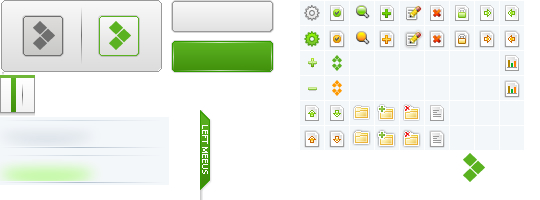
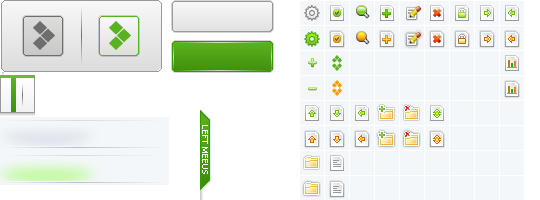
filemanager

diff --git a/webmis/css/admin.css b/webmis/css/admin.css
@@ -4,6 +4,7 @@ body,div,span,ul,li,table,tr,td,input,a,h1,h2,h3,h4{margin: 0; padding: 0;}
 body,textarea{font-family: arial,simsun,宋体,sans-serif; font-size: 12px;}
 img{border: none;}
 ul{list-style: none;}
+em{padding: 4px 10px;}
 a{color: #007568; text-decoration: none;}
 a:hover{color: #FF6600;}
 textarea{border: #999 1px solid; background: #EFF4FA;}
@@ -18,7 +19,7 @@ input:focus, textarea:focus{
 }
 .input{height: 22px; line-height: 22px; border: #999 1px solid; background: #EFF4FA; display: inline-block;}
 
-.UI{background-image:url("../images/admin_ui.jpg"); background-repeat: no-repeat; background-position:0px 0px;}
+.UI{background-image:url("../images/admin_ui.png"); background-repeat: no-repeat; background-position:0px 0px;}
 
 /* Checkbox */
 #checkboxY,#checkboxN{padding: 2px 6px;}
@@ -92,7 +93,7 @@ input:focus, textarea:focus{
 .menu_an_bg1{background-position: 0px -120px;}
 .menu_an_bg2{background-position: 0px -155px;}
 .menu_list li{padding: 6px; font-weight: normal; border: none;}
-.menu_list li a em{padding: 4px 10px; background-position: -300px -2px;}
+.menu_list li a em{background-position: -300px -2px;}
 .menu_list li a:hover em{background-position: -300px -28px;}
 .menuOne{display: none;}
 .menu_list{display: none;}
@@ -104,7 +105,6 @@ input:focus, textarea:focus{
 .right_action{float: left;}
 .right_action span{float: left; color: #999;}
 .right_action a{float: left; margin: 0 10px;}
-.right_action a em{padding: 4px 10px;}
 
 /* Action */
 .action_list em{background-position: -325px -2px;}
@@ -130,14 +130,19 @@ input:focus, textarea:focus{
 .action_upload:hover em{background-position: -300px -128px;}
 .action_down em{background-position: -325px -102px;}
 .action_down:hover em{background-position: -325px -128px;}
-.action_folder em{background-position: -350px -102px;}
-.action_folder:hover em{background-position: -350px -128px;}
+.action_back em{background-position: -350px -102px;}
+.action_back:hover em{background-position: -350px -128px;}
 .action_addfolder em{background-position: -375px -102px;}
 .action_addfolder:hover em{background-position: -375px -128px;}
 .action_delfolder em{background-position: -400px -102px;}
 .action_delfolder:hover em{background-position: -400px -128px;}
-.action_file em{background-position: -425px -102px;}
-.action_file:hover em{background-position: -425px -128px;}
+.action_refresh em{background-position: -425px -102px;}
+.action_refresh:hover em{background-position: -425px -128px;}
+
+.ico_folder em{background-position: -300px -152px;}
+.ico_folder:hover em{background-position: -300px -178px;}
+.ico_file em{background-position: -325px -152px;}
+.ico_file:hover em{background-position: -325px -178px;}
 
 
 /* Table */

diff --git a/admin/js/system/sys_filemanager.js b/admin/js/system/sys_filemanager.js
@@ -4,4 +4,17 @@ $(function () {
 */
 	$('#listBG').webmis('TableOddColor');	//隔行换色
 	$('#table').webmis('TableAdjust');  //调整宽度
+	
 });
+//打开文件夹
+function openDir(path) {
+	$.webmis.win.close('sys_filemanager.html?path='+path);
+}
+//返回上级
+function backDir(path) {
+	$.webmis.win.close('sys_filemanager.html?path='+path);
+}
+//刷新目录
+function refreshDir(path) {
+	$.webmis.win.close('sys_filemanager.html?path='+path);
+}

diff --git a/admin/app/views/system/filemanager/index.php b/admin/app/views/system/filemanager/index.php
@@ -2,7 +2,9 @@
 <div class="right_top">
 	<span class="right_action">
 		<div class="right_title"><?php echo $title; ?></div>
-		<?php echo $actionHtml; ?>
+		<a class="action_back" href="#" onclick="backDir('<?php echo dirname($filelist['path']); ?>');return false;"><em class="UI">&nbsp;</em>返回上级</a>
+		 <span>|</span>
+		 <a class="action_refresh" href="#" onclick="refreshDir('<?php echo $filelist['path']; ?>');return false;"><em class="UI">&nbsp;</em>刷新</a>
 		 <span>|</span>
 		 <a class="action_upload" href="#"><em class="UI">&nbsp;</em>上传</a>
 		 <span>|</span>
@@ -10,9 +12,7 @@
 		 <span>|</span>
 		 <a class="action_down" href="#"><em class="UI">&nbsp;</em>下载</a>
 		 <span>|</span>
-		 <a class="action_delfolder" href="#"><em class="UI">&nbsp;</em>删除</a>
-		 <span>|</span>
-		 <a class="action_file" href="#"><em class="UI">&nbsp;</em>文件</a>
+		 <a class="action_del" href="#"><em class="UI">&nbsp;</em>删除</a>
 	</span>
 </div>
 <div class="right_line">&nbsp;</div>
@@ -21,9 +21,7 @@
 <table class="table_list">
 	<tr>
 		<td colspan="6" align="left">
-			<span>当前位置：</span>
-			<span id="fileUrl">/upload/</span>
-			<span>&nbsp;&nbsp;|&nbsp;&nbsp;<a href="#" >返回上级</a></span>
+			当前位置：<?php echo preg_replace('/(\.\.\/upload)/','',$filelist['path']); ?>
 		</td>
 	</tr>
 	<tr class="title" id="table">
@@ -35,19 +33,20 @@
 		<td width="40">权限</td>
 	</tr>
 	<tbody id="listBG">
-<?php if($filelist){foreach($filelist['folder'] as $val){ ?>
+<?php if(@$filelist['folder']){foreach($filelist['folder'] as $val){ ?>
 	<tr>
 		<td><input type="checkbox" value="<?php echo $val['name'];?>" /></td>
-		<td align="left"><a href="#" ><?php echo $val['name']; ?></a></td>
+		<td align="left"><a href="#" onclick="openDir('<?php echo $filelist['path'].$val['name']; ?>');return false;" class="ico_folder"><em class="UI">&nbsp;</em><?php echo $val['name']; ?></a></td>
 		<td><?php echo $val['ctime']; ?></td>
 		<td><?php echo $val['mtime']; ?></td>
 		<td><?php echo $val['size']; ?></td>
 		<td><?php echo $val['perm']; ?></td>
 	</tr>
-<?php };foreach($filelist['files'] as $val){ ?>
+<?php }} ?>
+<?php if(@$filelist['files']){foreach($filelist['files'] as $val){ ?>
 	<tr>
 		<td><input type="checkbox" value="<?php echo $val['name'];?>" /></td>
-		<td align="left"><a href="#" ><?php echo $val['name']; ?></a></td>
+		<td align="left"><a href="#" class="ico_file"><em class="UI">&nbsp;</em><?php echo $val['name']; ?></a></td>
 		<td><?php echo $val['ctime']; ?></td>
 		<td><?php echo $val['mtime']; ?></td>
 		<td><?php echo $val['size']; ?></td>

diff --git a/admin/app/controllers/sys_filemanager.php b/admin/app/controllers/sys_filemanager.php
@@ -2,49 +2,14 @@
 class Sys_filemanager extends MY_Controller {
 	//首页
 	public function index(){
+		$this->load->library('file_class');
 		
-		$data['filelist'] = $this->file_list();
+		$this->file_class->file_root = '/upload/';
+		$path = $this->input->get('path');
+		$data['filelist'] = $this->file_class->lists($path);
 		
 		$data['js'] = array('js/system/sys_filemanager.js');
 		$this->MyView('system/filemanager/index',$data);
-	}
-	//文件列表
-	public function file_list($c='..') {
-		$this->load->library('file_class');
-		
-		
-		
-		$data = '';
-		$d = opendir($c);
-		while($f = readdir($d)) {
-			if(strpos($f, '.') === 0) continue;
-			$ff = $c . '/' . $f;
-			$ext = strtolower(substr(strrchr($f, '.'), 1));
-			$ctime = $this->file_class->getctime($ff);
-			$mtime = $this->file_class->getmtime($ff);
-			$perm = $this->file_class->perm($ff).'<br>';
-			if(is_dir($ff)) {
-				$size = $this->file_class->dsize($ff).'<br>';
-				$data['folder'][] = array('name'=>$f, 'ctime'=>$ctime, 'mtime'=>$mtime, 'size'=>$size, 'perm'=>$perm);
-			}else {
-				$size = $this->file_class->size($ff).'<br>';
-				$class = $this->ico_class($ext);
-				$data['files'][] =  array('name'=>$f, 'ctime'=>$ctime, 'mtime'=>$mtime, 'size'=>$size, 'perm'=>$perm, 'class'=>$class);
-			}
-		}
-		//print_r($data);
-		return $data;
-	}
-	//文件图标
-	public function ico_class($ext='file') {
-		$class = array(
-			'file'=>'ico_file',
-			'img'=>'ico_img',
-			'pdf'=>'ico_pdf',
-			'ico'=>'ico_ico'
-		);
-		$date = @$class[$ext]?$class[$ext]:'ico_file';
-		return $date;
 	}
 }
 ?>

diff --git a/admin/app/libraries/file_class.php b/admin/app/libraries/file_class.php
@@ -1,5 +1,51 @@
 <?php
 class file_class{
+	var $file_root = '/';
+	
+	//文件列表
+	function lists($c='/') {
+		$c = $c?($c=='..'||$c=='.'?$this->file_root:$c):$this->file_root;
+		//添加 “/”
+		$c = substr($c,0,1)=='/'?$c:'/'.$c;
+		$c = substr($c,-1)=='/'?$c:$c.'/';
+		$data['path'] = '/';
+		//替换 “..”|“.”
+		$c = preg_replace('/\.\.|\./','',$c);
+		$c = $c==$this->file_root?$_SERVER['DOCUMENT_ROOT'].$this->file_root:$_SERVER['DOCUMENT_ROOT'].$this->file_root.$c;
+		if(is_dir($c)) {
+			$d = opendir($c);
+			while($f = readdir($d)) {
+				if(strpos($f, '.') === 0) continue;
+				$ff = $c . '/' . $f;
+				$ext = strtolower(substr(strrchr($f, '.'), 1));
+				$ctime = $this->getctime($ff);
+				$mtime = $this->getmtime($ff);
+				$perm = $this->perm($ff).'<br>';
+				if(is_dir($ff)) {
+					$size = $this->dsize($ff).'<br>';
+					$data['folder'][] = array('name'=>$f, 'ctime'=>$ctime, 'mtime'=>$mtime, 'size'=>$size, 'perm'=>$perm);
+				}else {
+					$size = $this->size($ff).'<br>';
+					$class = $this->ico_class($ext);
+					$data['files'][] =  array('name'=>$f, 'ctime'=>$ctime, 'mtime'=>$mtime, 'size'=>$size, 'perm'=>$perm, 'class'=>$class);
+				}
+			}
+		}else {
+			show_404();
+		}
+		return $data;
+	}
+	//文件图标
+	function ico_class($ext='file') {
+		$class = array(
+			'file'=>'ico_file',
+			'img'=>'ico_img',
+			'pdf'=>'ico_pdf',
+			'ico'=>'ico_ico'
+		);
+		$date = @$class[$ext]?$class[$ext]:'ico_file';
+		return $date;
+	}
 	//文件夹大小
 	function dsize($dir) {
 		return $this->formatBytes($this->dirsize($dir));
